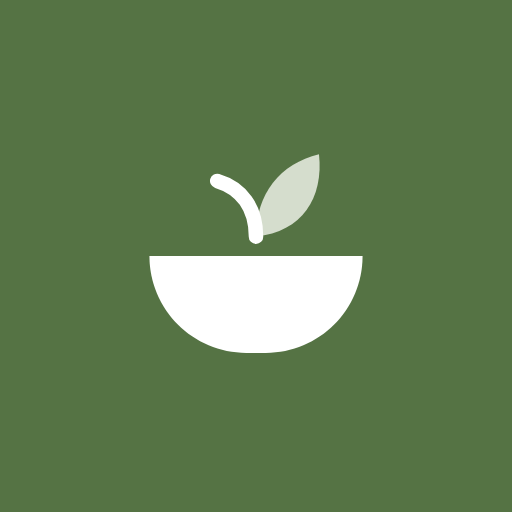
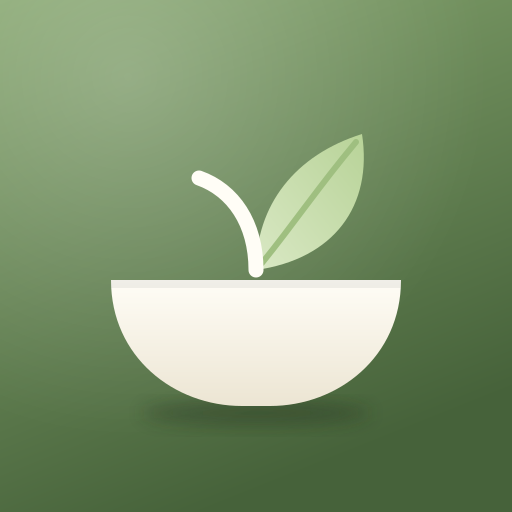
Yeni uygulama ikonu: adacayi degrade uzerinde krem kase + yaprak
Yayindaki 1.1 App Store Connect'te Capacitor'in varsayilan mavi ikonuyla
gorunuyor. Repodaki ikon 8 Temmuz'dan beri dogru; 1.1 Mac'te Xcode ile elle
arsivlendi ve Mac'teki kopya muhtemelen eskiydi. Duzeltme ancak yeni surumle
(1.2) mumkun.

- brand/app-icon.svg: tek kaynak. Marka isaretinin (kase + yaprak) rafine
  hali; adacayi degrade, krem kase, yumusak golge
- scripts/generate-icons.mjs: iOS 1024, PWA 192/512/maskable, apple-touch ve
  favicon'u bu kaynaktan uretir. iOS/PWA ikonlari kosesiz ve opak
- Mac gonderim rehberine Xcode'da AppIcon kontrolu eklendi

diff --git a/APP_STORE_YENIDEN_GONDERIM.md b/APP_STORE_YENIDEN_GONDERIM.md
@@ -152,6 +152,12 @@ geri alındı — Mac'te doğru yollarla yeniden üretilecek.
    - Capability listesinde **In-App Purchase yoksa hiçbir şey yapma.** Projede
      `.entitlements` dosyası yok, yani zaten kapalı. Varsa üstüne gel, `×` ile kaldır.
 
+   > **İkonu kontrol et:** Sol panelde `App → Assets → AppIcon`'a tıkla. Yeşil
+   > zemin üzerinde krem kase + yaprak görmelisin. Mavi Capacitor işareti
+   > görüyorsan Mac'teki kopya eski demektir — `git pull` yap, Xcode'u kapatıp
+   > aç. **1.1 bu kontrol yapılmadan gönderildiği için mağazada varsayılan
+   > ikonla yayınlandı.**
+
 4. Üst çubukta cihaz seçici (App ▸ ...) → **Any iOS Device (arm64)** seç.
    Simulator seçiliyse Archive menüsü gri kalır.
 
@@ -311,6 +317,7 @@ Ramazan Malaz
 - [ ] `npx cap sync ios` çıktısında **2 plugin** var, RevenueCat yok
 - [ ] Xcode → Build numarası **18** (veya 17'den büyük)
 - [ ] Xcode → Signing & Capabilities'te In-App Purchase yok
+- [ ] Xcode → Assets → AppIcon yeşil kase + yaprak (mavi Capacitor işareti DEĞİL)
 - [ ] Archive alındı ve upload edildi
 - [ ] Build App Store Connect'te "Processing"ten çıktı
 
